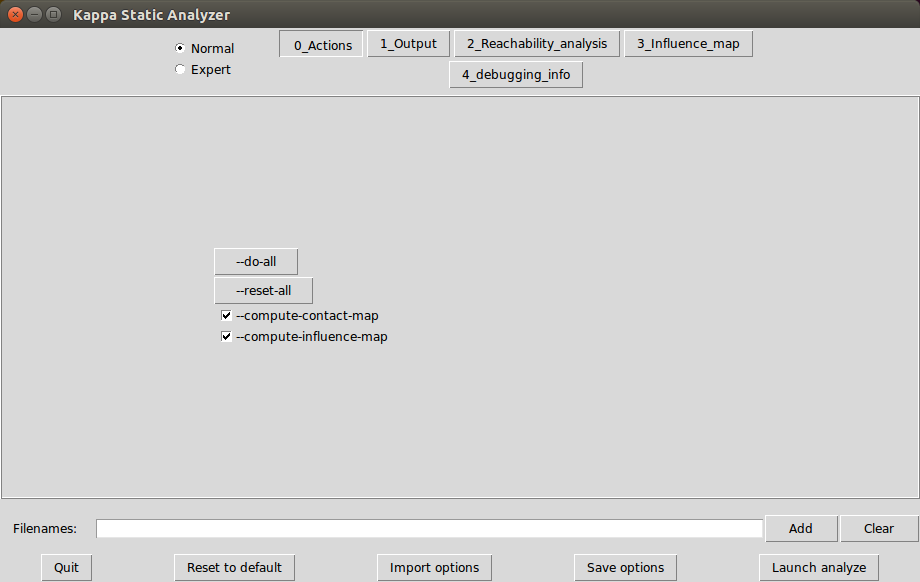
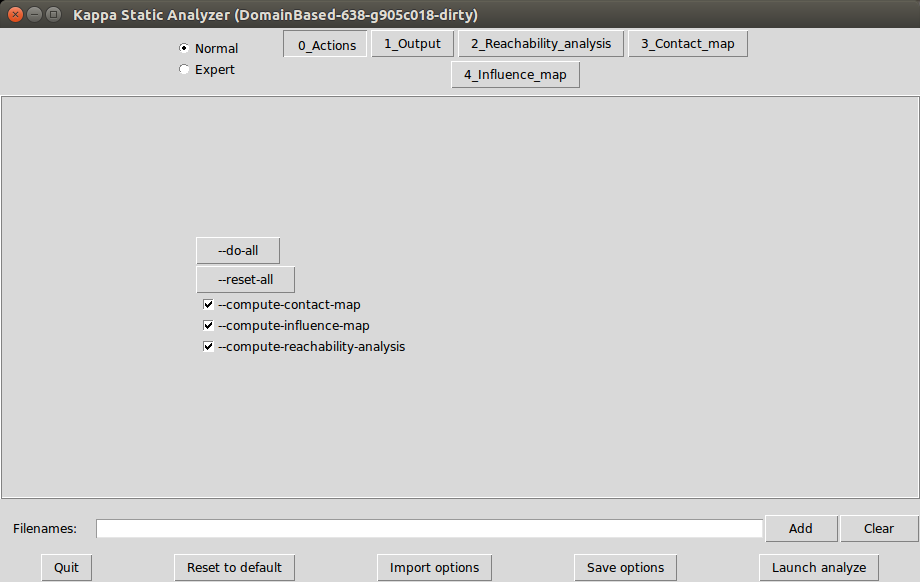
Manual, reachability analysis... first pass.

diff --git a/man/KaSim_manual.tex b/man/KaSim_manual.tex
@@ -130,7 +130,7 @@ Note that \KaSim~can only render curves in the svg format. However, data outputs
 
 \section{The \KaSa~static analyser}
 
-\KaSa~is an open source static analyser  tool of rule-based models~\cite{DanLan04,Dan_etal07a,Fae_etal05} written in Kappa. \KaSa~takes one or several \hyperref[chap:kappa]{Kappa files} as input and some command line options to toggle on/off some specific static analysis. Currently, only the computation of the contact map and of the influence map are available. Other analyses including reachability analysis \cite{Feret-ICCMSE2007,DanosEtAl-VMCAI08} and model reduction \cite{Feret-et-al-pnas2009,DanosEtAl-LICS2010,Feret-MFPSXXVII} will come soon. 
+\KaSa~is an open source static analyser  tool of rule-based models~\cite{DanLan04,Dan_etal07a,Fae_etal05} written in Kappa. \KaSa~takes one or several \hyperref[chap:kappa]{Kappa files} as input and some command line options to toggle on/off some specific static analysis. Currently, \KaSa~can compute the contact map and the influence map. It can perform reachability analysis \cite{Feret-ICCMSE2007,DanosEtAl-VMCAI08} as well.  Other analyses including  model reduction \cite{Feret-et-al-pnas2009,DanosEtAl-LICS2010,Feret-MFPSXXVII} will come soon. 
 
 A graphical interface is proposed to navigate through the various options and utilities  of \KaSa. The compilation of this interface requires \href{https://forge.ocamlcore.org/projects/labltk/}{labltk} and, in particular,  \href{http://www.tcl.tk/}{tk-dev}.
 
@@ -1192,8 +1192,9 @@ The onglet \texttt{0\_Actions} (see Fig.~\ref{fig:kasa:0}) contains the main act
 \begin{itemize}
 \item The button \texttt{--do-all} activates all the functionalities. 
 \item The button \texttt{--reset-all} inactivates all the functionalities.
-\item The option \texttt{--compute-contact-map} can be used to activate the computation of the contact map. 
-\item The option \texttt{--compute-influence-map} can be used to activate the computation of the influence map.
+\item The option \texttt{--compute-contact-map} can be used to (des)activate the computation of the contact map. 
+\item The option \texttt{--compute-influence-map} can be used to (des)activate the computation of the influence map.
+\item The option \texttt{--compute-reachability-analysis} can be used to (des)activate the computation of the reachability analysis.
 \end{itemize}
 
 \subsection{The onglet \texttt{1\_Output}}
@@ -1215,6 +1216,72 @@ The onglet \texttt{1\_Ouput} (see Fig.~\ref{fig:kasa:1}) contains the names of t
 \end{itemize}
 
 When a file already exists, it is overwritten without any warning. 
+
+\section{Reachability analysis}
+
+Reachability analysis aimed at detecting statically properties about the bio-molecular species that can be formed in a model. 
+Knowing whether, or not, a given bio-molecular species, can be formed in a model is an undecidable problem \cite{}. Thus, our analysis is approximate. Indeed, it computes an over-approximation of the set of the bio-molecular species that can be reached from the initial state of the model, by applying an unbounded number of computation steps. As formalized in \cite{}, the abstraction consists in:
+\begin{enumerate}
+\item firstly, ignoring the number of occurrences (we assume that whenever a bio-molecular species can be formed, then it can be formed as many time as it could be necessary), 
+\item secondly, abstracting a bio-molecular species by the set of its local views (that is to say that we focus on the relationships between the states of the sites within agents, but we abstract away any relationships between different agents within a bio-molecular species).
+\end{enumerate}
+
+As an example, we consider the following model:
+\begin{lstlisting}[language=kappa]
+'A.p'   A(x~u,y) -> A(x~p,y)
+'dimer' A(x~p,y),A(x~p,y) -> A(x~p,y!1),A(x~p,y!1)
+'dead'  A(x~u,y!_) -> A(x~q,y)
+
+%init: 1 A(x~u,y~u)
+\end{lstlisting}
+
+Typing the following instruction:
+
+\texttt{KaSa reachability.ka --reset-all --compute-reachability-analysis}
+
+will perform the reachability analysis on the model \texttt{reachability.ka}. 
+
+\begin{figure}[t]
+\input{generated_img/LOG_low.txt}
+\caption{Reachability analysis of the model \texttt{reachbility.ka}}
+\label{fig:reachability}
+\end{figure}
+
+
+The result (eg.~see Fig.~\ref{fig:reachability})is displayed in the standard output, and it is made of three parts:
+\begin{itemize}
+\item \textbf{Detection of dead rules.} A rule is called dead, if there is no trace starting from the initial state in which this rule is applied. The analysis reports the list of the rules it has detected to be dead. Due to the over-approximation, it may happen that a dead rule is not discovered by the analysis. Yet, any rule that is reported as dead, is dead indeed. 
+  
+\item \textbf{Relational properties.} The analysis detects some relationships among the states of the sites of each agent. Simple properties are reported in natural languages. More complex properties are reported in extension, by enumerating the states that these site can take simultaneously within a given instance of an agent. Due to the over-approximation of the analysis, the analysis may fail in discovering a relationship. But each relationship that is found by the analysis, is satisfied. 
+
+\item \textbf{Non-relational properties.} The analysis detects for each kind of site, the set of states this site can take. This set is described in natural language. Due to the over-approximation, the analysis reports a super-set of the set of the potential states. Yet, we are sure that a given site only take states within this set. 
+\end{itemize}
+
+The option \texttt{--use-natural-language} can be used to switch on/off the translation of properties in natural language: when the option is disabled, each relationship is described in extension. 
+
+It is possible to get more details about the computation of the analysis by tuning the verbosity level of the view analysis:
+\begin{itemize}
+\item With the option \texttt{--use-natural-language Mute}, nothing is displayed. Even the result of the analysis is omitted.
+
+\input{generated_img/LOG_mute.txt}
+
+\item With the option \texttt{--use-natural-language Low}, only the result of the analysis is displayed. 
+\input{generated_img/LOG_low.txt}
+
+\item With the option \texttt{--use-natural-language Medium}, the analysis also describes which rules are applied and in which order. 
+
+\input{generated_img/LOG_medium.txt}
+
+\item With the option \texttt{--use-natural-language High}, the analysis also describes which views are discovered. 
+
+\input{generated_img/LOG_high.txt}
+
+\item With the option \texttt{--use-natural-language Full}, the analysis also describes which rules are awaken by the discovery of a new view. 
+
+\input{generated_img/LOG_full.txt}
+\end{itemize}
+
+
 
 \section{Contact map}
 
